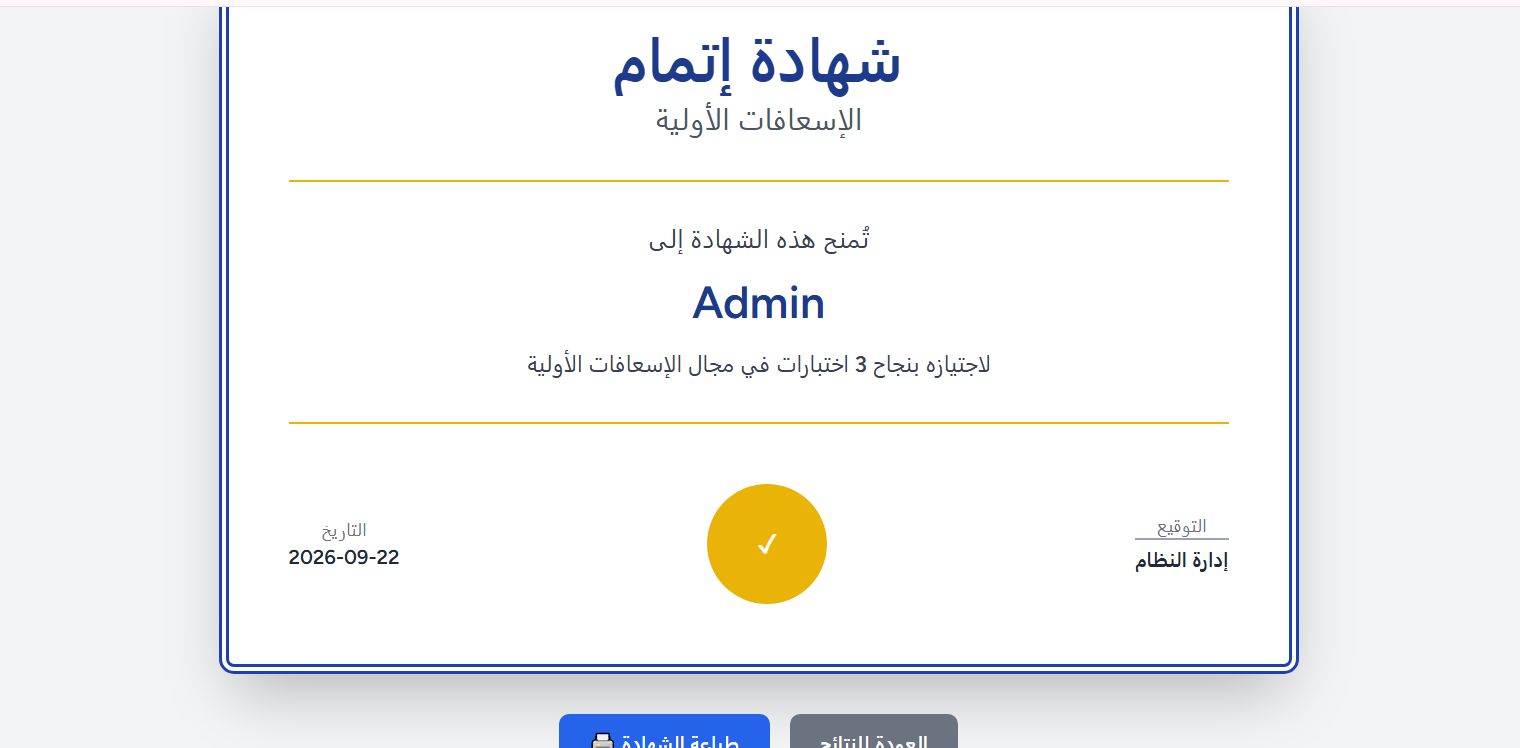
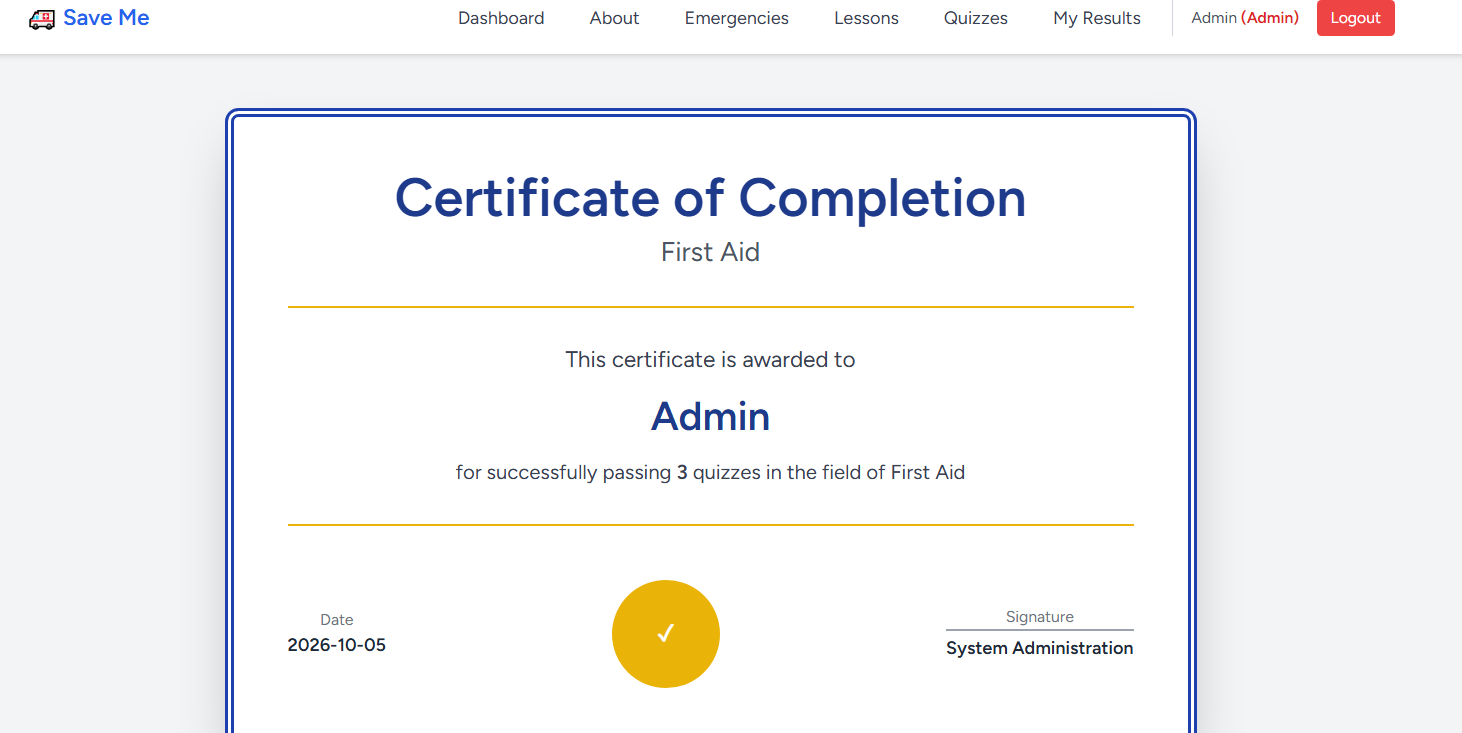
Update screenshots with English UI

diff --git a/README.md b/README.md
@@ -106,3 +106,9 @@ You can run this project using Docker and Docker Compose.
 
 ### quiz-results
 ![quiz-results](screenshots/quiz-results.png)
+
+### quis-take
+![quis-take](screenshots/quiz-take.png)
+
+### about
+![about](screenshots/about.png)
